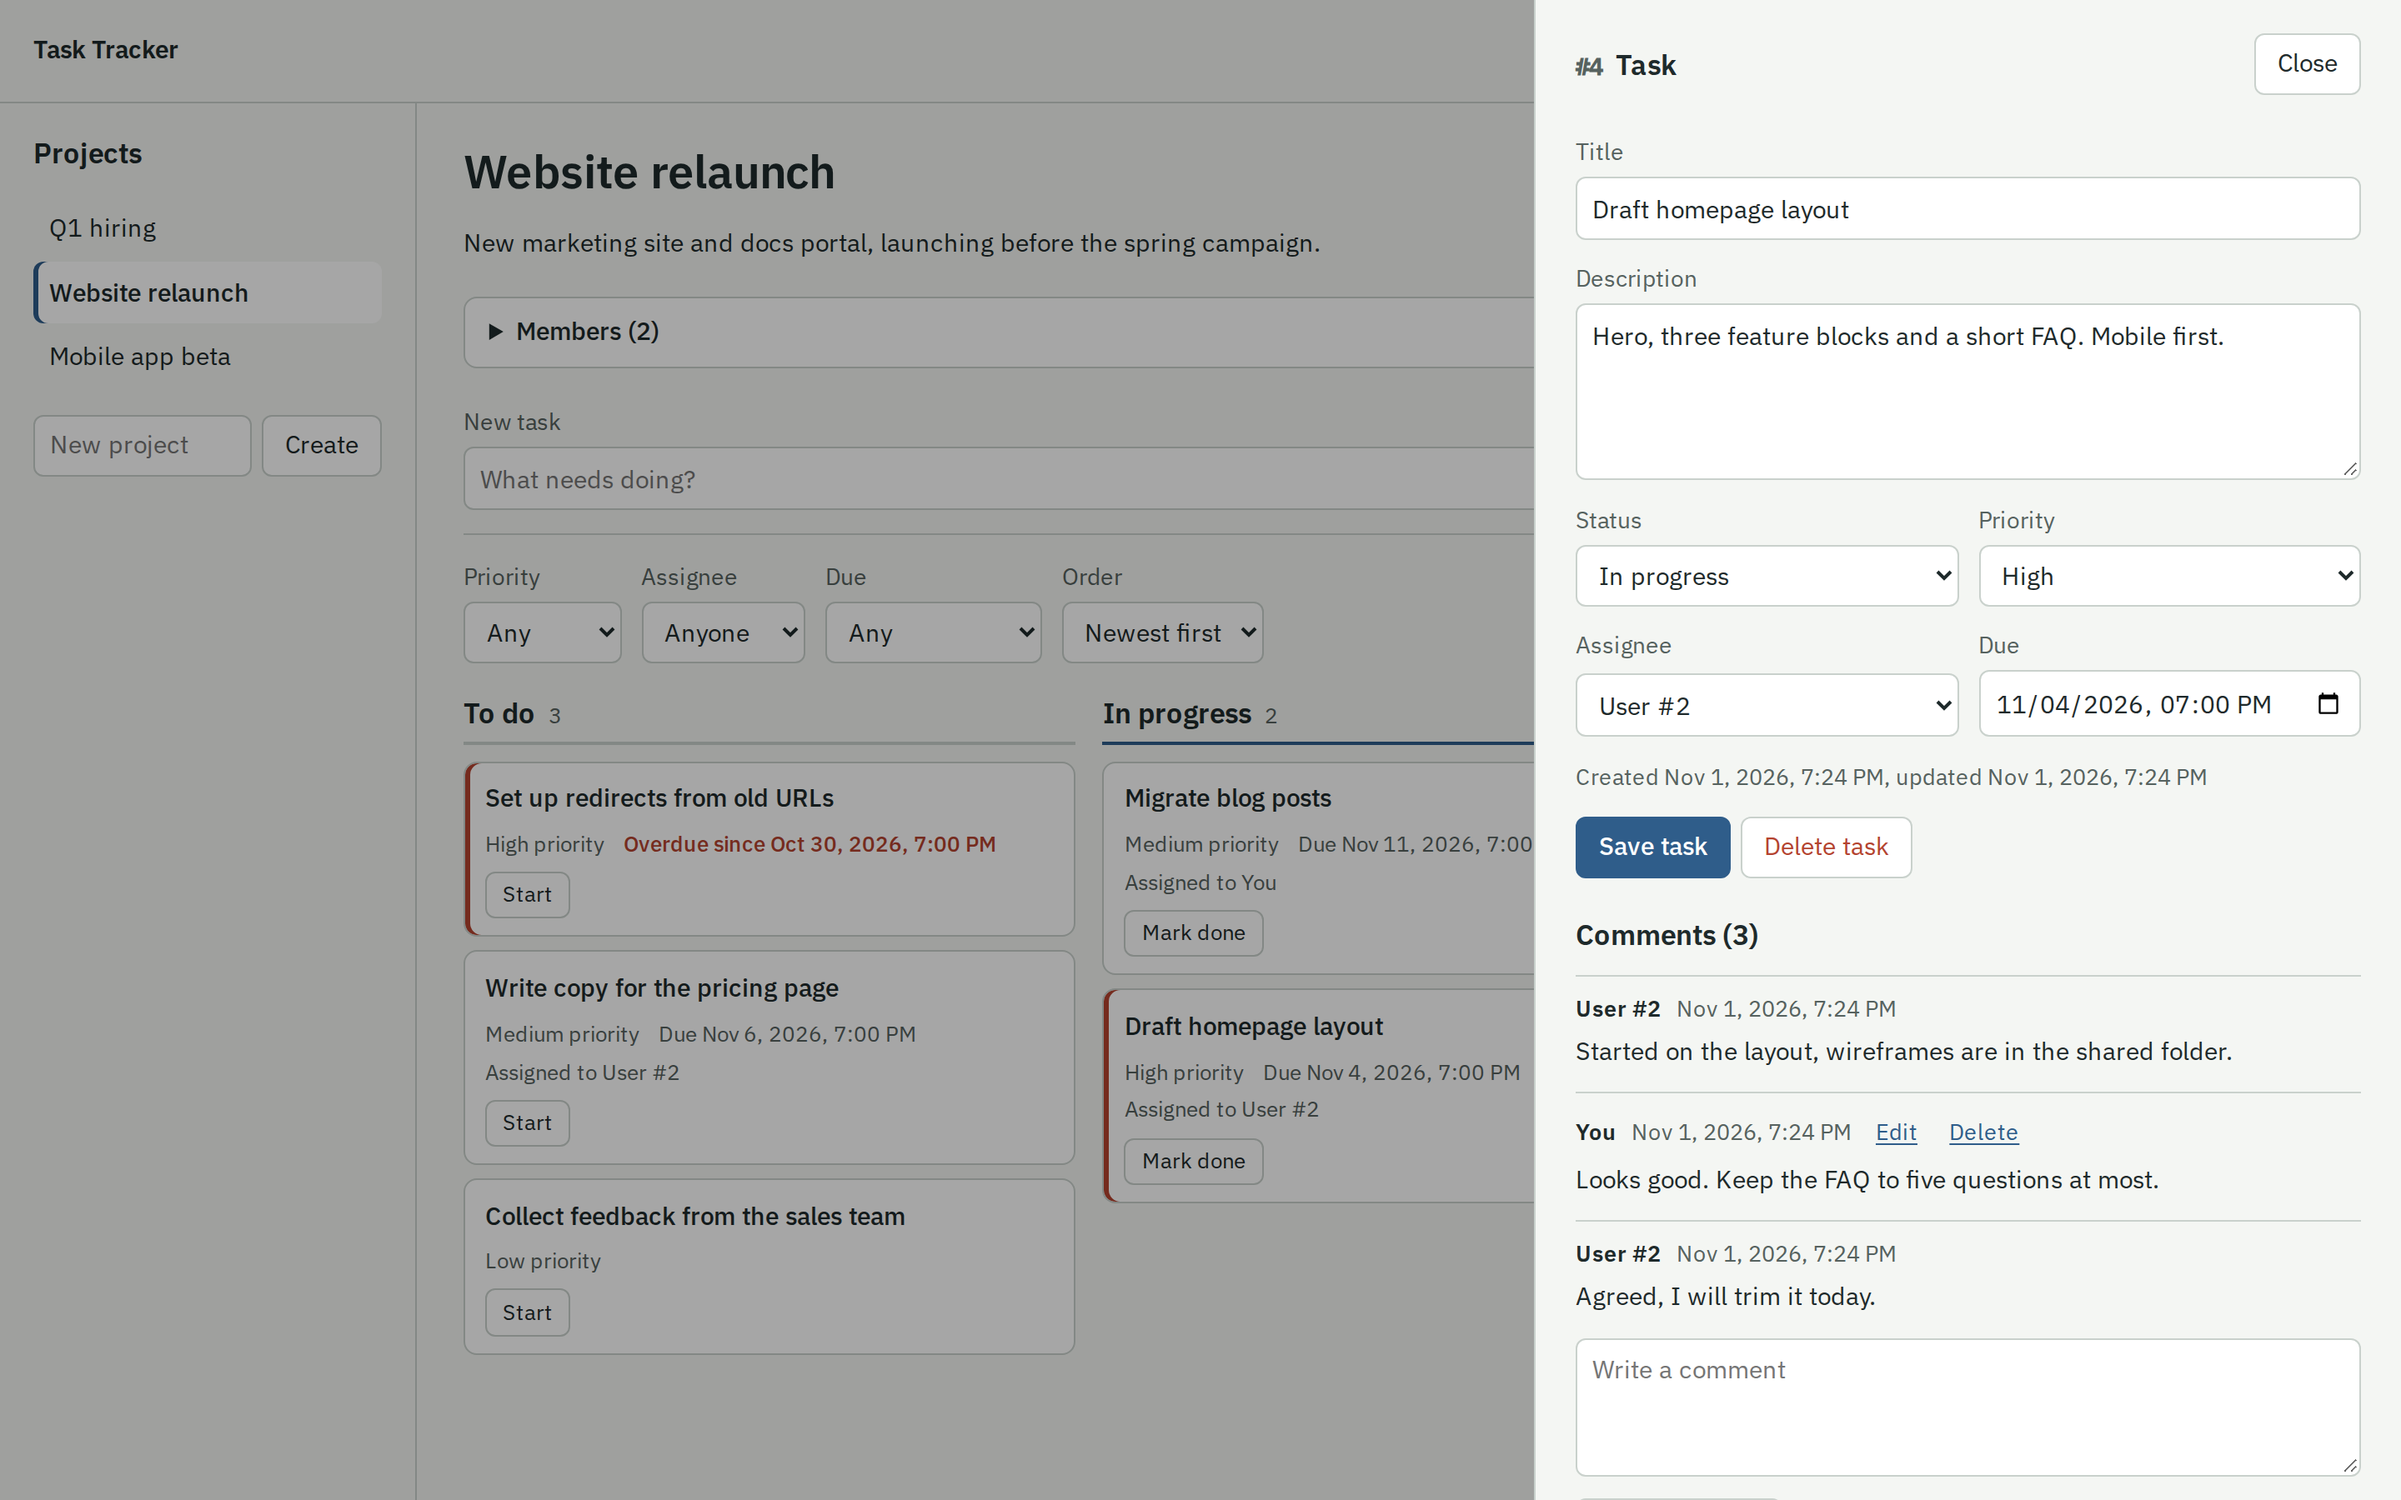
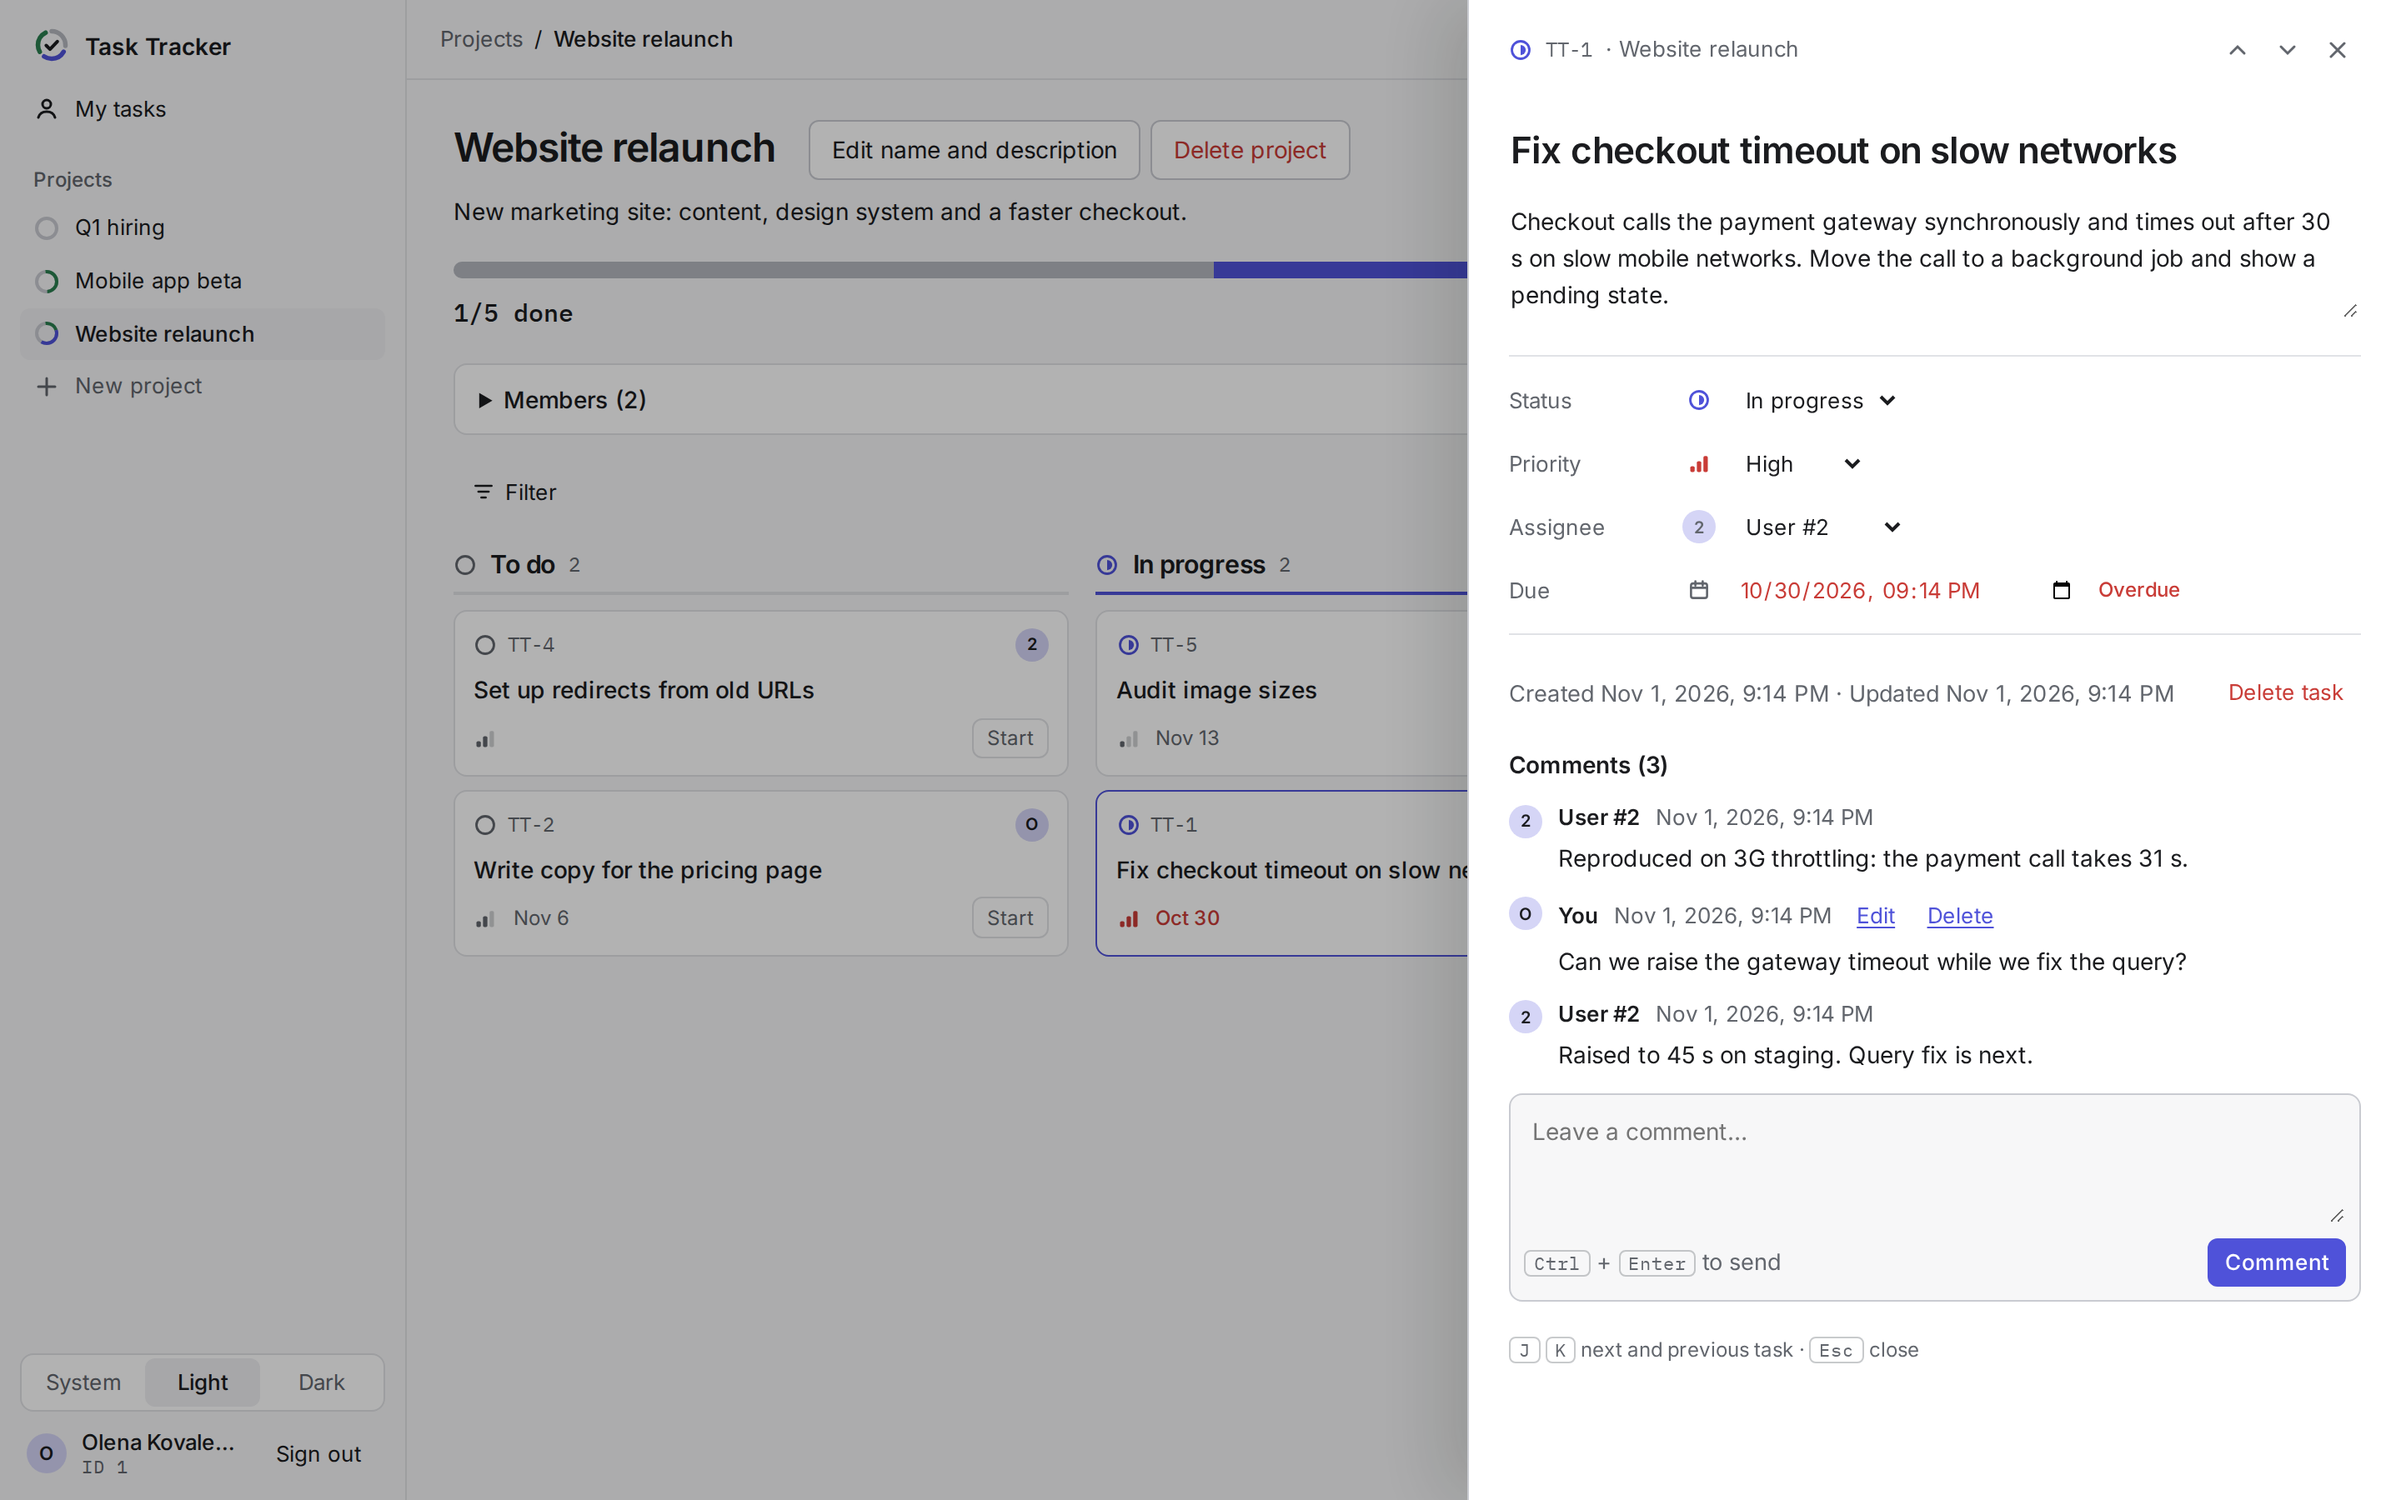
docs: update web client screenshots for the redesign

diff --git a/README.md b/README.md
@@ -155,11 +155,11 @@ To try two users at once, sign in as each one in a separate browser tab: the ses
 kept per tab.
 
 <p align="center">
-  <img src="docs/screenshots/web-board.png" alt="Task board with To do, In progress and Done columns" width="800" />
+  <img src="docs/screenshots/web-board.png" alt="Board in the dark theme: sidebar with project progress rings, the progress rail, and task cards with status, priority, ID, due date and assignee" width="800" />
 </p>
 <p align="center">
-  <img src="docs/screenshots/web-task.png" alt="Task editor with comments open beside the board" width="464" height="290" />
-  <img src="docs/screenshots/web-mobile-dark.png" alt="Board on a phone in dark mode, columns shown as tabs" width="314" height="290" />
+  <img src="docs/screenshots/web-task.png" alt="Task side panel in the light theme with status, priority, assignee and due date rows and three comments" width="560" height="350" />
+  <img src="docs/screenshots/web-mobile-dark.png" alt="List view on a phone in the dark theme, tasks grouped by status" width="162" height="350" />
 </p>
 
 ### API with curl
